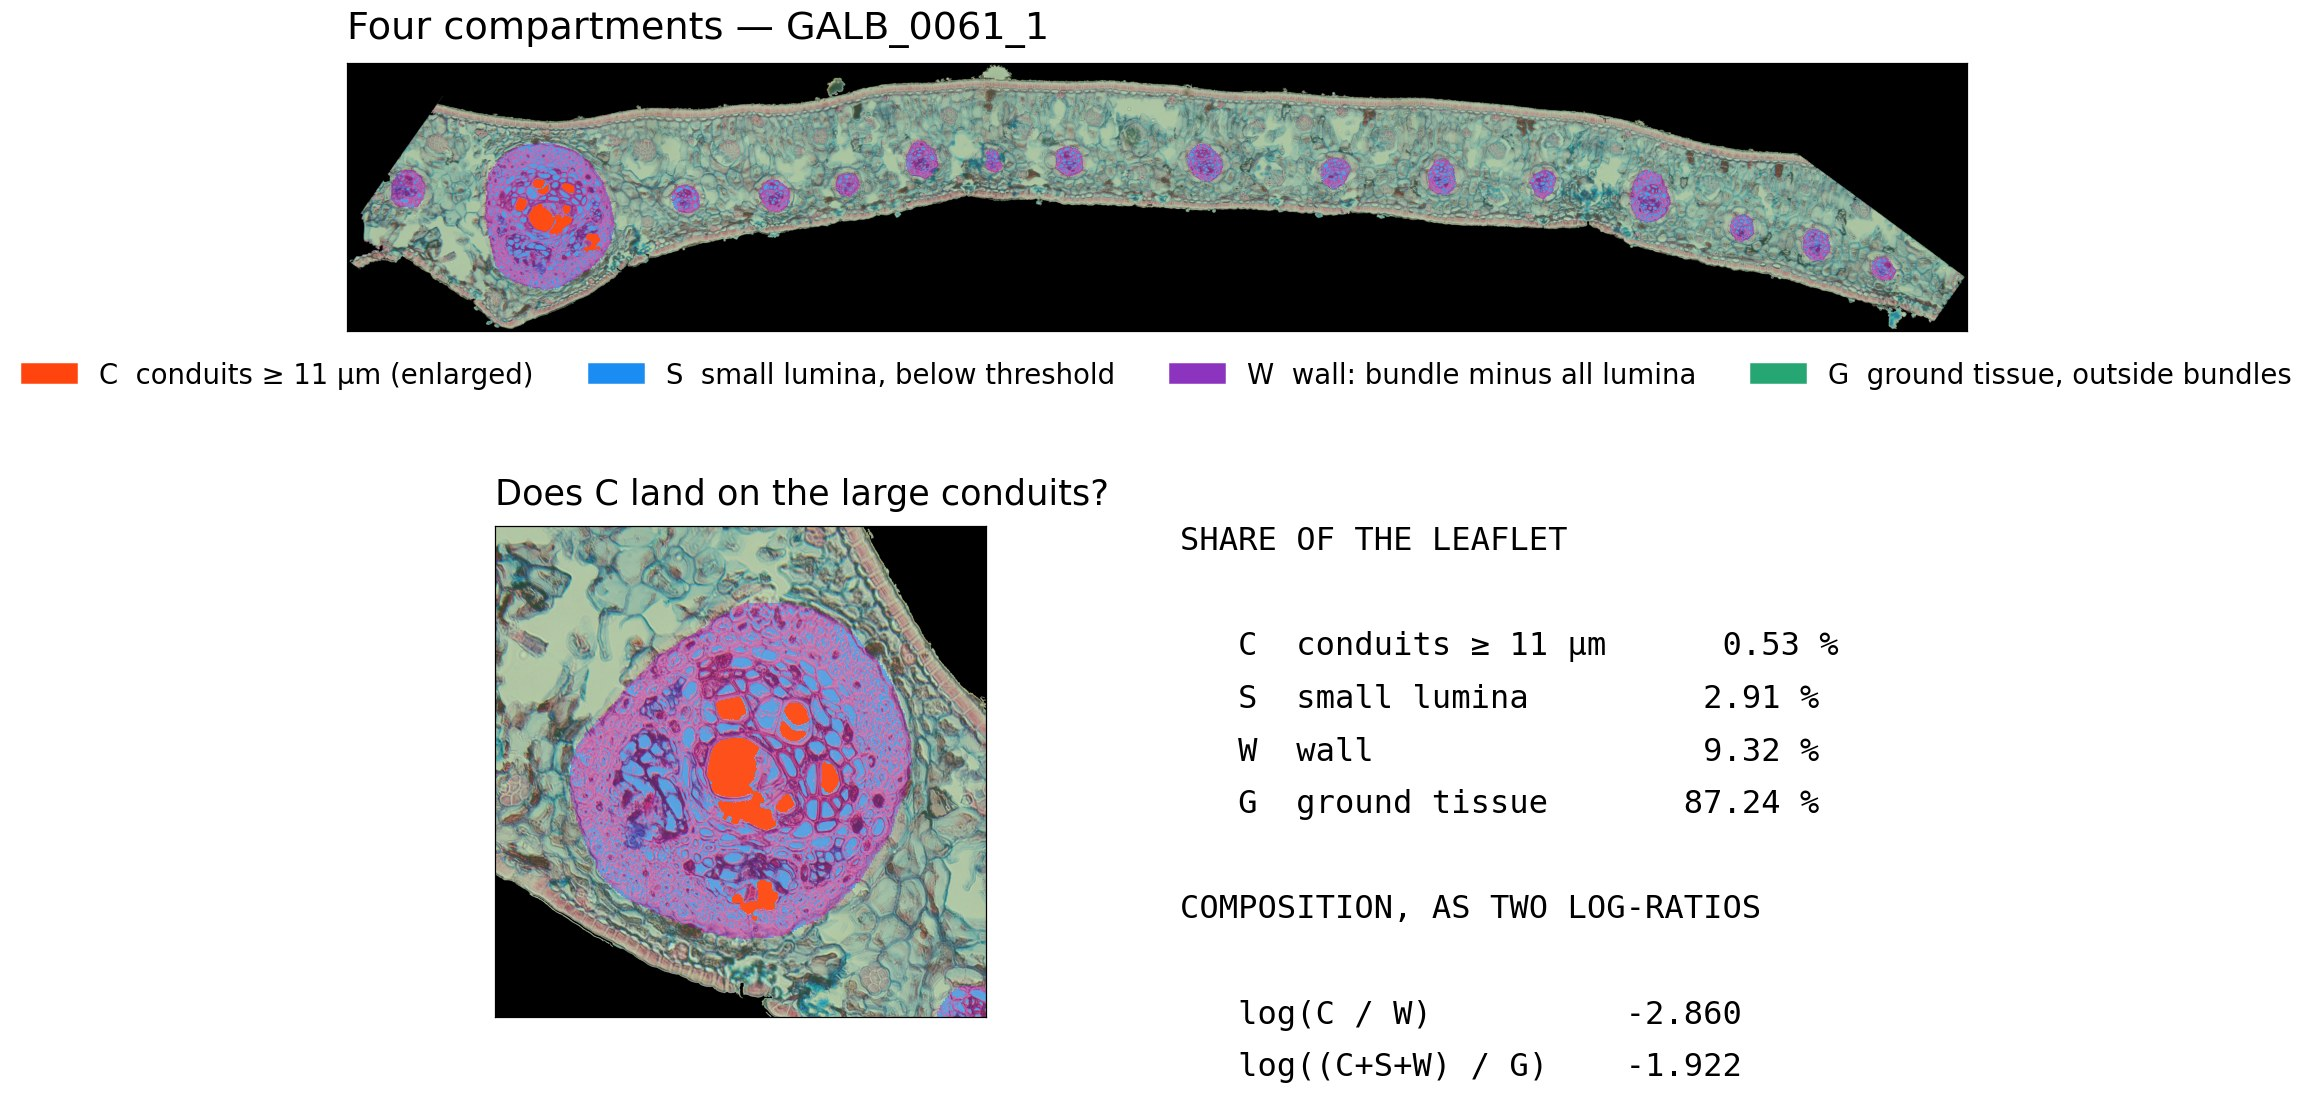
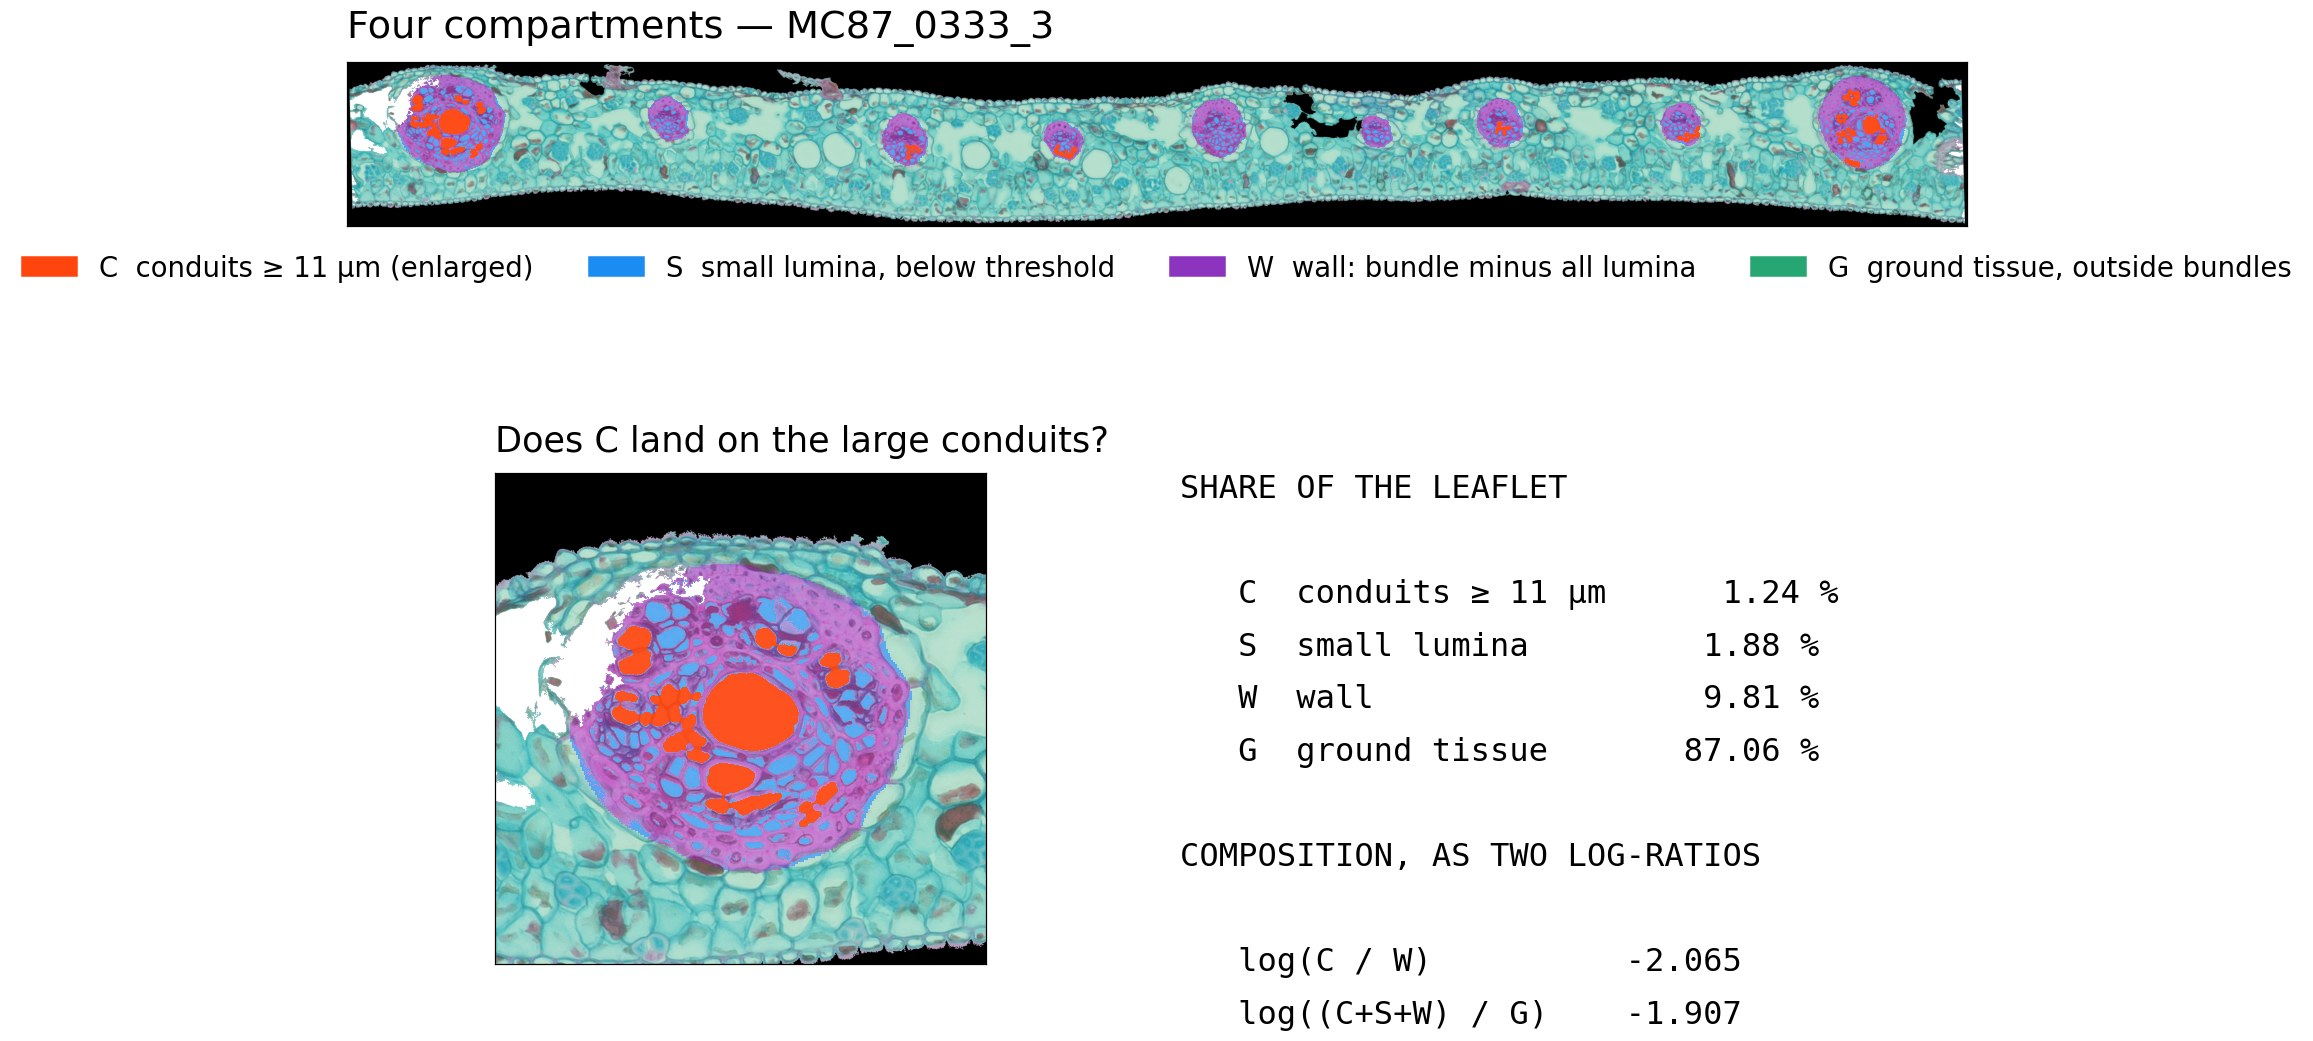
Apply each section's own pixel size wherever a figure measures, and describe the leaflet as three compartments
A figure of a Keyence section reported 204 um of thickness where the table gives
158, a bundle diameter of 83 um against 64, and 23 conduits against 7. All four
were out by the same factor of 1.291, which is 0.1853 divided by 0.1435: the
figure code read the native pixel size instead of the section's own. Fractions
were unaffected, since a ratio of two areas does not depend on pixel size, so
four values were right and four wrong in the same caption.

Five call sites carried the fault, three of them under a comment promising that
a figure diverging from the table would be worse than useless. The same
calibration error has now surfaced three times in this project, always through a
default that silently applies one chain's scale to the other, so
lumen_at_full_resolution no longer has a default for pixel_um: forgetting the
argument raises immediately instead of returning a plausible number 29 % out.

The leaflet is now described as three exclusive compartments — large lumina at
least 11 um across, the rest of the bundle, and ground tissue — rather than
four. A composition of D parts needs D-1 coordinates, and the previous four
compartments were given only two, whose first denominator excluded the small
lumina. log_conduit_over_wall is therefore replaced by
log_conduit_over_bundle_rest, and the pair now describes the composition
completely. C is defined by size, never as vessels: the threshold does not
separate vessels from fibres, and phloem is not detected at all.
[…]

diff --git a/src/faspy/figures.py b/src/faspy/figures.py
@@ -350,7 +350,7 @@ def _source_paths(key: str):
     return (raw if raw.exists() else None), leaflet, DIR_BUNDLE / f"{key}_BU.png"
 
 
-def _lumen_share(leaflet_full, bundle_mask, leaflet):
+def _lumen_share(leaflet_full, bundle_mask, leaflet, pixel_um):
     """Fraction luminale du faisceau, mesuree comme en production.
 
     Passait par ``LUMEN_SCALE / WORKING_SCALE``, un rapport qui vaut un : la
@@ -362,7 +362,8 @@ def _lumen_share(leaflet_full, bundle_mask, leaflet):
 
     if not bundle_mask.any():
         return 0.0
-    fine = lumen_at_full_resolution(leaflet_full, bundle_mask, leaflet)
+    fine = lumen_at_full_resolution(leaflet_full, bundle_mask, leaflet,
+                                    pixel_um=pixel_um)
     denominator = float(fine["bundle"].sum())
     return float(fine["lumen"].sum()) / denominator if denominator else 0.0
 
@@ -416,7 +417,8 @@ def pipeline_figure(key: str, output=None, model_name=None, rescale=CELLPOSE_RES
     to_full = 1.0 / (WORKING_SCALE ** 2)
     n_bundles = len([i for i in np.unique(segmented) if i > 0])
     leaflet_px, bundle_px = int(leaflet.sum()), int(bundle_mask.sum())
-    lumen_share = _lumen_share(leaflet_full, bundle_mask, leaflet)
+    lumen_share = _lumen_share(leaflet_full, bundle_mask, leaflet,
+                               pixel_size_for(key))
     diameters = [
         2 * np.sqrt(int((annotated == i).sum()) / np.pi) for i in np.unique(annotated) if i > 0
     ]
@@ -567,11 +569,18 @@ def pipeline_figure(key: str, output=None, model_name=None, rescale=CELLPOSE_RES
     # Meme mesure que la production : le lumen sur l'image d'origine, la
     # geometrie a l'echelle de travail. Une figure qui montrerait d'autres
     # chiffres que le CSV serait pire qu'inutile.
-    fine = lumen_at_full_resolution(leaflet_full, bundle_mask, leaflet)
+    # La taille de pixel de CETTE coupe, transmise a chaque etape. Sans elle,
+    # une coupe Keyence sortait toutes ses longueurs 29 % trop grandes -- ce que
+    # le commentaire ci-dessus promettait justement d'eviter.
+    _px_full = pixel_size_for(key)
+    _px_work = _px_full / WORKING_SCALE
+    fine = lumen_at_full_resolution(leaflet_full, bundle_mask, leaflet,
+                                    pixel_um=_px_full)
     full_lumen = to_working_scale(fine["lumen"], bundle_mask.shape)
-    measured = trait_route.section_traits(leaflet, segmented, full_lumen, fine=fine)
+    measured = trait_route.section_traits(leaflet, segmented, full_lumen,
+                                          fine=fine, pixel_um=_px_work)
     field, rotated_leaflet, (rotated_bundle,), mid_line = trait_route.mid_plane(
-        leaflet, bundle_mask)
+        leaflet, bundle_mask, pixel_um=_px_work)
 
     # A stretch of the lamina rather than the whole strip: at a third of the
     # sheet's width the full section collapses to an unreadable band, whereas a
@@ -581,7 +590,7 @@ def pipeline_figure(key: str, output=None, model_name=None, rescale=CELLPOSE_RES
     centre = (x0f + x1f) // 2
     x0f = max(x0f, centre - int(1.5 * thickness))
     x1f = min(x1f, centre + int(1.5 * thickness))
-    depth_view = np.where(rotated_leaflet, field * trait_route.PIXEL_UM,
+    depth_view = np.where(rotated_leaflet, field * pixel_um,
                           np.nan)[y0f:y1f, x0f:x1f]
 
     reliable_mid, _ = trait_route.midplane_reliable(rotated_leaflet)
@@ -639,7 +648,9 @@ def pipeline_figure(key: str, output=None, model_name=None, rescale=CELLPOSE_RES
     vessel_view = vessel_crop.copy()
     count_v, labels_v, stats_v, _ = cv2.connectedComponentsWithStats(
         lumen_v.astype(np.uint8), 8)
-    pixel_um_full = trait_route.PIXEL_UM
+    # Le vignettage travaille a l'echelle de travail, d'ou pixel_um et non
+    # pixel_full : c'est la resolution des objets qu'on y mesure.
+    pixel_um_full = pixel_um
     n_vessels_here = 0
     for index in range(1, count_v):
         area = stats_v[index, cv2.CC_STAT_AREA]
@@ -947,12 +958,20 @@ def traits_figure(key: str, output=None, model_name=None, rescale=CELLPOSE_RESCA
     from matplotlib.patches import Circle
 
     from . import traits as trait_route
-    from .config import LUMEN_MIN_DIAMETER_UM, VESSEL_MIN_DIAMETER_UM
+    from .config import (LUMEN_MIN_DIAMETER_UM, VESSEL_MIN_DIAMETER_UM,
+                         WORKING_SCALE, pixel_size_for)
     from .quantify import lumen_at_full_resolution, to_working_scale
 
-    pixel_um = trait_route.PIXEL_UM
+    # LA TAILLE DE PIXEL DE CETTE COUPE, jamais la constante native : le
+    # second systeme d'acquisition n'a pas la meme, et lire la constante faisait
+    # sortir toutes les longueurs d'une coupe Keyence dans un rapport 1.291 --
+    # 204 um d'epaisseur affiches contre 158 dans la table. Les fractions, elles,
+    # restaient justes, ce qui rendait l'erreur discrete.
+    pixel_full = pixel_size_for(key)
+    pixel_um = pixel_full / WORKING_SCALE
     scaled, leaflet, segmented, source, original = _load_section(key, model_name, rescale)
-    fine = lumen_at_full_resolution(original, segmented > 0, leaflet)
+    fine = lumen_at_full_resolution(original, segmented > 0, leaflet,
+                                    pixel_um=pixel_full)
     lumen = to_working_scale(fine["lumen"], leaflet.shape)
     measured = trait_route.section_traits(leaflet, segmented, lumen, fine=fine)
 

diff --git a/src/faspy/traits.py b/src/faspy/traits.py
@@ -467,17 +467,15 @@ def section_traits(leaflet: np.ndarray, instances: np.ndarray, lumen: np.ndarray
 
     # A L'ECHELLE DE LA FOLIOLE, la composition a TROIS parties et non deux :
     #
-    #     C = conduits >= seuil     (hydraulique)
-    #     B = reste du faisceau     (structure vasculaire : parois et petits
-    #                                lumens)
-    #     G = tissu fondamental     (hors faisceaux)
+    #     C = grands lumens >= seuil   (definis par la TAILLE, pas l'identite)
+    #     R = reste du faisceau        (petits lumens et materiel non luminal)
+    #     G = tissu fondamental        (hors faisceaux)
     #
-    # Une composition a trois parties se decrit avec DEUX coordonnees
-    # independantes, pas une :
+    # Trois parties EXCLUSIVES, donc deux coordonnees independantes :
     #
-    #     log(C/B)      allocation A L'INTERIEUR du systeme vasculaire, ecrit
-    #                   plus bas sous log_conduit_over_wall ;
-    #     log((C+B)/G)  part de la foliole investie dans le vasculaire, ici.
+    #     log(C/R)      allocation a l'interieur du faisceau, ecrite plus bas
+    #                   sous log_conduit_over_bundle_rest ;
+    #     log((C+R)/G)  part de la foliole investie dans le vasculaire, ici.
     #
     # Ensemble elles determinent entierement la composition, alors que
     # ratio_BU_LM et vessel_area_frac_BU, etant des parts d'un tout, sont
@@ -629,7 +627,7 @@ def section_traits(leaflet: np.ndarray, instances: np.ndarray, lumen: np.ndarray
     if fine is not None:
         lumen_areas = _lumen_objects(fine["lumen"], LUMEN_MIN_DIAMETER_UM, fine_pixel)
     else:
-        lumen_areas = _lumen_objects(lumen, LUMEN_MIN_DIAMETER_UM)
+        lumen_areas = _lumen_objects(lumen, LUMEN_MIN_DIAMETER_UM, pixel_um)
     if lumen_areas.size:
         diameters = 2 * np.sqrt(lumen_areas / np.pi) * fine_pixel
         vessels = diameters >= VESSEL_MIN_DIAMETER_UM
@@ -670,7 +668,27 @@ def section_traits(leaflet: np.ndarray, instances: np.ndarray, lumen: np.ndarray
             float(lumen_areas[vessels].sum()) / max(float(bundle_px), 1.0), 5
         )
 
-        # Compromis hydraulique / structure, en LOG-RAPPORT.
+        # Composition a TROIS parties exclusives, et deux coordonnees.
+        #
+        #     C  grands lumens, >= VESSEL_MIN_DIAMETER_UM
+        #     R  reste du faisceau : petits lumens ET materiel non luminal
+        #     G  tissu fondamental, hors faisceaux
+        #
+        # Une composition a D parties demande D-1 coordonnees. Une version
+        # precedente definissait QUATRE compartiments et n'en donnait que deux,
+        # et son denominateur -- la paroi seule -- ignorait les petits lumens.
+        # Trois parties exclusives reglent les deux defauts.
+        #
+        # Les fractions brutes ne peuvent pas entrer dans un modele : elles sont
+        # contraintes par leur somme, si bien que correler deux parts d'un meme
+        # tout mesure en partie cette contrainte. Le log-rapport y echappe.
+        #
+        # NaN quand C vaut zero. Pas de pseudocompte silencieux : un
+        # remplacement de zeros doit rester sous l'aire du plus petit conduit
+        # detectable, pi*(seuil/2)^2, et rester un choix explicite de l'analyste.
+        #
+        # C EST DEFINI PAR LA TAILLE. "Grands lumens", pas "vaisseaux" : le seuil
+        # ne separe pas vaisseaux et fibres, et le phloeme n'est pas detecte.
         #
         # Les fractions sont contraintes par leur somme -- ce qui est cavite
         # n'est pas paroi -- si bien que correler deux parts d'un meme tout
@@ -688,17 +706,18 @@ def section_traits(leaflet: np.ndarray, instances: np.ndarray, lumen: np.ndarray
         # remplacement de zeros en aval doit rester SOUS l'aire du plus petit
         # conduit detectable, pi*(seuil/2)^2 soit 95 um2 a 11 um, sans quoi il
         # affirmerait avoir vu ce qui n'a pas ete vu.
-        _cond, _wall = float(lumen_areas[vessels].sum()), float(wall_px)
-        out["log_conduit_over_wall"] = (
-            round(float(np.log(_cond / _wall)), 4)
-            if _cond > 0 and _wall > 0 else float("nan"))
+        _cond = float(lumen_areas[vessels].sum())
+        _rest = float(bundle_px) - _cond
+        out["log_conduit_over_bundle_rest"] = (
+            round(float(np.log(_cond / _rest)), 4)
+            if _cond > 0 and _rest > 0 else float("nan"))
     else:
         for field in LUMEN_FIELDS:
             out[field] = 0
         # Zero conduit n'est pas un log-rapport nul, c'est une absence : sans
         # conduit le rapport n'existe pas. Ecrire 0 le ferait passer pour un
         # faisceau ou conduits et paroi s'equilibrent.
-        out["log_conduit_over_wall"] = float("nan")
+        out["log_conduit_over_bundle_rest"] = float("nan")
 
     # Traits qui reposent sur le plan median : sans repere fiable, une valeur
     # est pire qu'une absence, car rien en aval ne la distingue.
@@ -732,7 +751,7 @@ LUMEN_FIELDS = [
     "n_lumen", "lumen_diameter_median_um", "lumen_diameter_p90_um",
     "lumen_diameter_max_um", "n_vessels", "vessel_area_over_bundle",
     "conduit_sum_d4_um4", "conduit_dh_um",
-    "log_conduit_over_wall",
+    "log_conduit_over_bundle_rest",
     "log_vascular_over_ground",
 ]
 

diff --git a/src/faspy/quantify.py b/src/faspy/quantify.py
@@ -25,7 +25,6 @@ from .config import (
     EXCLUDED_SECTIONS,
     FLOW_THRESHOLD,
     PIXEL_AREA_UM2,
-    PIXEL_SIZE_UM,
     min_bundle_area_px,
     pixel_area_for,
     pixel_size_for,
@@ -49,7 +48,7 @@ FIELDS = [
 
 def lumen_at_full_resolution(rgb: np.ndarray, bundle: np.ndarray,
                              leaflet: np.ndarray,
-                             pixel_um: float = PIXEL_SIZE_UM) -> dict:
+                             pixel_um: float) -> dict:
     """Lumen measured on the original image rather than on the working scale.
 
     The rule itself is unchanged and stays photometric and relative: see
